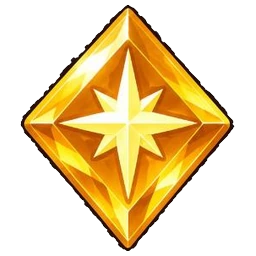
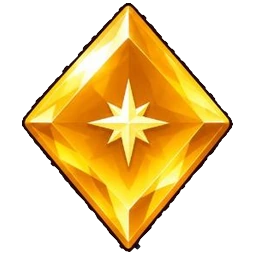
v0.74.0: biểu tượng giữa ngọc nhỏ lại, lộ mặt ngọc
Claude-Session: https://claude.ai/code/session_01Q71dSV1Aw33VZ7jDMhTJpy

Changed region(s): [[0.0625, 0.0, 0.9375, 1.0]]

diff --git a/www/js/version.js b/www/js/version.js
@@ -1,4 +1,4 @@
 // Tự sinh bởi tools/stamp-version.js, đừng sửa tay.
-export const VERSION = '0.73.0';
-export const BUILD = 139;
+export const VERSION = '0.74.0';
+export const BUILD = 140;
 export const BUILD_DATE = '2026-11-13';
